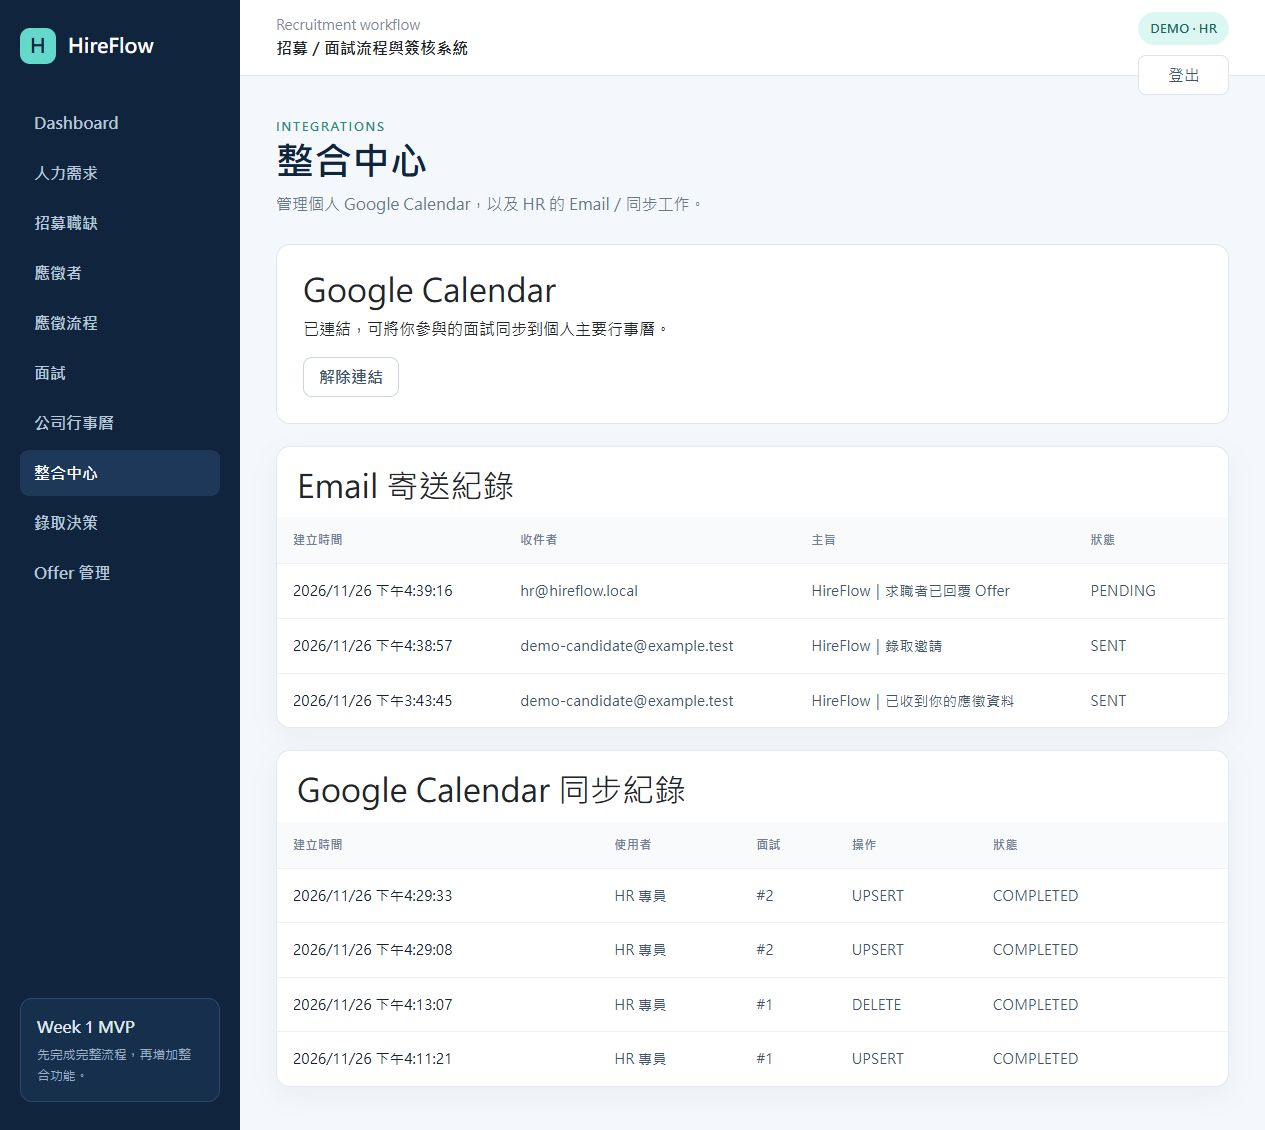
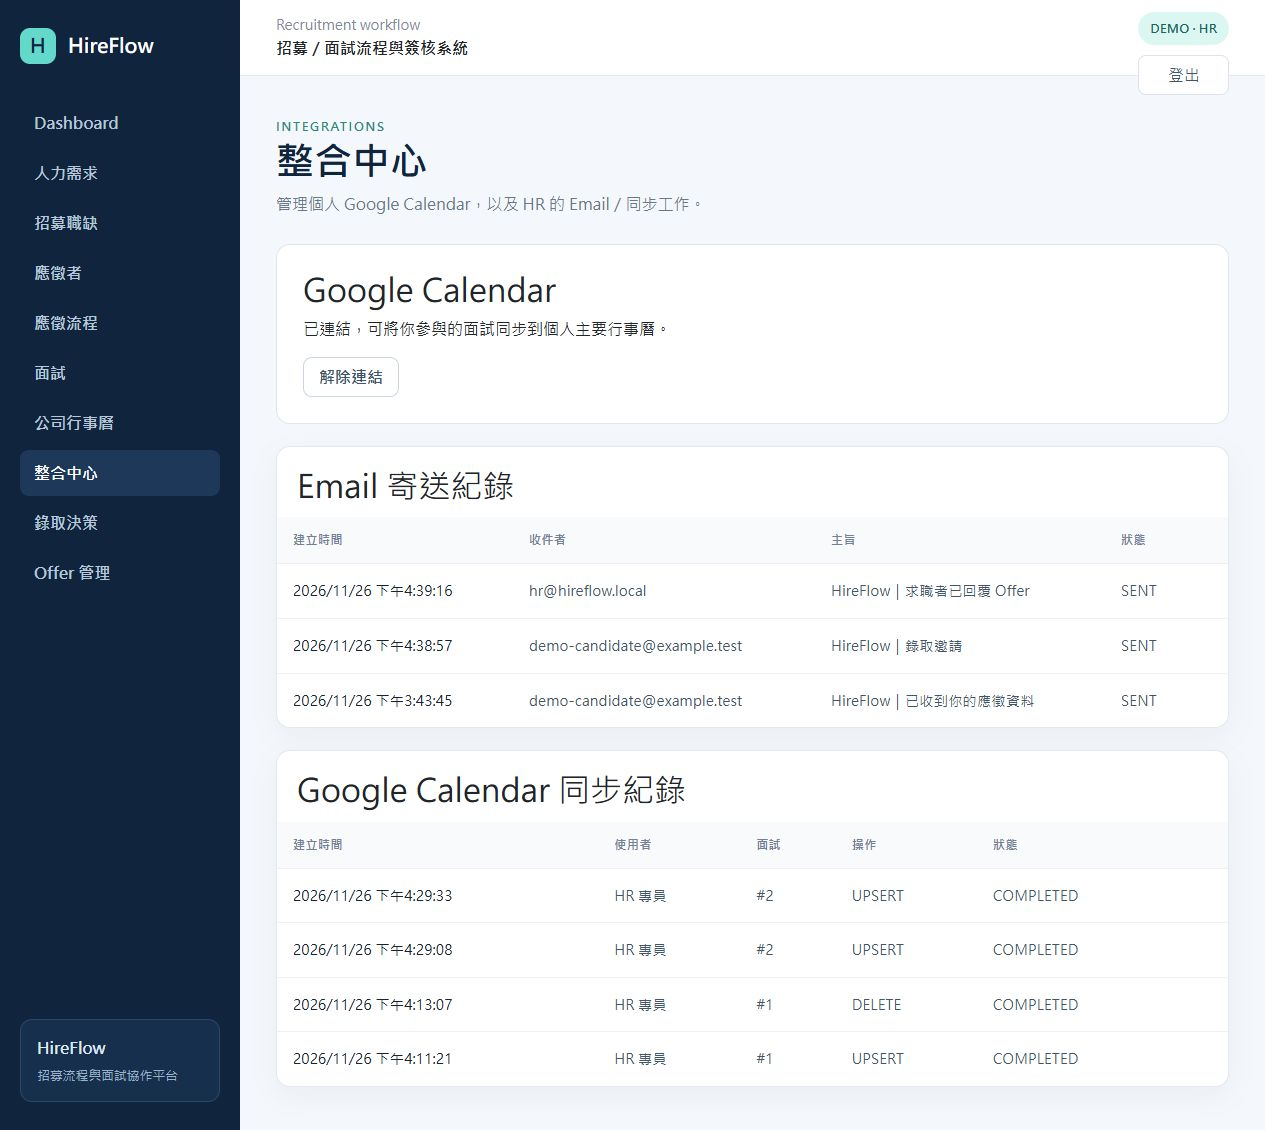
docs: organize project documentation by feature

diff --git a/frontend/src/assets/main.css b/frontend/src/assets/main.css
@@ -87,7 +87,7 @@ a { text-decoration: none; }
 .forbidden-state h1 { color: #10243d; font-size: 1.7rem; }
 .inline-button { display: inline-grid; margin-top: 24px; padding: 0 18px; }
 
-/* Public careers and candidate portal (Day 8-9) */
+/* Public careers and candidate portal */
 .public-shell { min-height: 100vh; color: #17304a; background: #f7fafc; }
 .public-header { display: flex; align-items: center; justify-content: space-between; height: 72px; padding: 0 max(24px, calc((100vw - 1120px) / 2)); border-bottom: 1px solid #e1e9ee; background: rgba(255,255,255,.95); }
 .public-brand { display: flex; align-items: center; gap: 10px; color: #10243d; font-weight: 900; }
@@ -329,7 +329,7 @@ a { text-decoration: none; }
 .audit-filter { grid-template-columns: minmax(260px, 1fr) minmax(220px, .7fr) auto; }
 .audit-filter .primary-button { min-height: 42px; padding: 0 18px; align-self: end; }
 
-/* Offer closure and PDF resume (Day 14) */
+/* Offer closure and PDF resume */
 .offer-form { display: grid; gap: 20px; margin-bottom: 22px; }
 .offer-form label { display: grid; gap: 7px; color: #34475d; font-size: .84rem; font-weight: 800; }
 .offer-form input, .offer-form select, .offer-form textarea, .offer-decline textarea { width: 100%; padding: 11px 12px; border: 1px solid #ccd6e1; border-radius: 8px; color: #182230; background: #fff; font: inherit; }

diff --git a/frontend/src/views/DashboardView.vue b/frontend/src/views/DashboardView.vue
@@ -11,7 +11,7 @@ const apiStatus = ref('checking')
 const authStore = useAuthStore()
 
 const cards = ref([
-  { label: '待審核需求', value: '0', helper: 'Day 3 串接資料' },
+  { label: '待審核需求', value: '0', helper: '等待 HR 審核的人力需求' },
   { label: '未來七天面試', value: '0', helper: '依登入者資料範圍顯示' },
   { label: '待填評分', value: '0', helper: '只計算指派給我的面試' },
   { label: '流程中人選', value: '0', helper: '目前進行中的應徵紀錄' },

diff --git a/frontend/src/views/LoginView.vue b/frontend/src/views/LoginView.vue
@@ -82,7 +82,7 @@ async function submit() {
     </section>
 
     <aside class="login-story">
-      <p class="eyebrow">DAY 2</p>
+      <p class="eyebrow">ROLE-BASED ACCESS</p>
       <h2>每個角色，只看見該做的事</h2>
       <p>登入狀態保存在伺服器 Session；即使繞過前端畫面，後端仍會再次驗證權限。</p>
       <ul>

diff --git a/frontend/src/layouts/AppShell.vue b/frontend/src/layouts/AppShell.vue
@@ -51,8 +51,8 @@ async function handleLogout() {
       </nav>
 
       <div class="sidebar-note">
-        <strong>Week 1 MVP</strong>
-        <span>先完成完整流程，再增加整合功能。</span>
+        <strong>HireFlow</strong>
+        <span>招募流程與面試協作平台</span>
       </div>
     </aside>
 

diff --git a/docs/INTEGRATIONS.md b/docs/INTEGRATIONS.md
@@ -1,6 +1,6 @@
-# Day 10–13：面試協調、Email 與 Google Calendar
+# 面試協調、Email 與 Google Calendar
 
-## Day 10：面試時段與公司行事曆
+## 面試時段與公司行事曆
 
 - HR 可針對 Application 建立多個候選面試時段。
 - 求職者在原本的安全進度頁選擇一個時段；確認後才建立正式 Interview。
@@ -8,7 +8,7 @@
 - 其他未選時段自動改為 `WITHDRAWN`。
 - HR／ADMIN 可查看全部面試；主管只看自己部門；純面試官只看指派給自己的行程。
 
-## Day 11：Email Outbox 與 Gmail
+## Email Outbox 與 Gmail
 
 核心交易只建立 `email_deliveries` 工作，不直接等待 Gmail。背景 Dispatcher 負責寄送，失敗後以 1 分鐘、5 分鐘間隔重試，三次後標示 FAILED，HR 可在整合中心人工重試。
 
@@ -29,7 +29,7 @@ Gmail 帳號應使用 App Password，不要把一般登入密碼或 App Password
 
 派送程式改用 `TransactionTemplate` 明確建立每筆獨立交易，避免同類別呼叫繞過 `@Transactional` 代理。工作先取得資料列鎖並重新確認狀態，成功／失敗結果在交易結束時提交；已完成或尚未到重試時間的工作直接跳過。外部 SMTP／Google 呼叫不屬於資料庫交易，程序中斷時仍需考慮重複派送，詳見 `PUBLIC_RELEASE_CHECKLIST.md`。
 
-## Day 12：Google Calendar
+## Google Calendar
 
 1. 在 Google Cloud 建立 OAuth 2.0 Web Application。
 2. 啟用 Google Calendar API。
@@ -64,7 +64,7 @@ Google 官方參考：
 - https://developers.google.com/identity/protocols/oauth2/web-server
 - https://developers.google.com/workspace/calendar/api/v3/reference/events/insert
 
-## Day 13：整合管理與失敗隔離
+## 整合管理與失敗隔離
 
 - `/integrations`：個人連結／解除 Google Calendar。
 - HR／ADMIN 可查看 Email Delivery 與 Calendar Sync Job。

diff --git a/README.md b/README.md
@@ -135,7 +135,7 @@ HireFlow/
 │   ├── src/services/
 │   ├── src/stores/
 │   └── tests/
-├── docs/                        # 各階段功能與驗收文件
+├── docs/                        # 功能、設定與驗收文件
 ├── .github/workflows/           # CI
 ├── compose.yaml                 # 本機 PostgreSQL
 └── README.md
@@ -231,15 +231,7 @@ $env:HIREFLOW_SMTP_TEST='true'
 Remove-Item Env:HIREFLOW_SMTP_TEST
 ```
 
-## 完成階段
-
-- Day 1–2：Monorepo、PostgreSQL、Flyway、Session 登入、CSRF 與角色權限。
-- Day 3–6：人力需求、職缺、應徵者、招募看板、面試、評分、錄取決策與 Audit Log。
-- Day 7–9：CI、OpenAPI、公開職缺、求職表單、安全查詢連結與進度時間軸。
-- Day 10–13：面試選時、部門行事曆、Email Outbox、Gmail、Google Calendar 與整合中心。
-- Day 14：Offer 簽核與回覆、到期提醒，以及安全的 PDF 履歷附件。
-
-詳細功能與設定說明位於 [`docs/`](docs/)；Day 10–13 外部整合設定見 [`docs/DAY10-13.md`](docs/DAY10-13.md)，Day 14 Offer 與附件見 [`docs/DAY14.md`](docs/DAY14.md)。
+詳細功能與設定說明位於 [`docs/`](docs/)；外部整合設定見 [`整合設定`](docs/INTEGRATIONS.md)，Offer 與附件見 [`Offer 與 PDF 履歷`](docs/OFFERS_AND_ATTACHMENTS.md)。
 
 ## 專案說明
 

diff --git a/docs/CANDIDATE_PORTAL.md b/docs/CANDIDATE_PORTAL.md
@@ -1,13 +1,13 @@
-# Day 7–9 完成內容
+# 公開職缺與求職者入口
 
-## Day 7：作品集交付能力
+## CI 與 API 文件
 
 - GitHub Actions 會分別執行後端測試、前端測試與前端建置。
 - Swagger UI：`http://localhost:8080/swagger-ui.html`
 - OpenAPI JSON：`http://localhost:8080/v3/api-docs`
 - Demo 初始化器會在空資料庫建立一筆公開的 Backend Engineer 職缺。
 
-## Day 8：公開職缺與線上應徵
+## 公開職缺與線上應徵
 
 - 公開職缺列表：`http://localhost:5173/careers`
 - 求職者可填基本資料、技能、自傳、作品集與多筆工作經歷。
@@ -15,11 +15,10 @@
 - 同一個 Email 不可重複應徵同一職缺。
 - 履歷送出後產生不可猜測的查詢 token；資料庫只保存 SHA-256 雜湊。
 
-## Day 9：求職者進度入口
+## 求職者進度入口
 
 - 送出履歷後會導向專屬進度頁。
 - 進度由內部 `ApplicationStage` 轉成求職者可理解的文字。
 - 公開回應刻意排除評分、內部備註、操作人與淘汰原因。
 - 查詢 token 預設 30 天到期，可用 `CANDIDATE_PORTAL_TOKEN_TTL_DAYS` 調整。
 
-> Day 10 再加入面試時段選擇；Day 11 才把同一個查詢連結寄到 Gmail，避免現在先把外部整合耦合進核心應徵流程。

diff --git a/docs/OFFERS_AND_ATTACHMENTS.md b/docs/OFFERS_AND_ATTACHMENTS.md
@@ -1,6 +1,6 @@
-# Day 14：Offer 結案與 PDF 履歷附件
+# Offer 結案與 PDF 履歷附件
 
-Day 14 將「錄取決策」延伸成可結案的 Offer 流程，並讓求職者在安全入口更新 PDF 履歷。這個階段仍以本機作品功能為主，未進入正式部署或展示資料整理。
+Offer 將「錄取決策」延伸成可結案的流程，並讓求職者在安全入口更新 PDF 履歷。
 
 ## Offer 流程
 
@@ -75,7 +75,7 @@ RESUME_MAX_FILE_SIZE=5MB
 RESUME_MAX_REQUEST_SIZE=6MB
 ```
 
-Offer Email 實際寄送仍沿用 Day 11 的 `APP_MAIL_ENABLED` 與 Gmail SMTP 設定。
+Offer Email 實際寄送使用 `APP_MAIL_ENABLED` 與 Gmail SMTP 設定，詳見 [整合設定](INTEGRATIONS.md)。
 
 ## 驗收與開發環境
 

diff --git a/docs/AUTHENTICATION.md b/docs/AUTHENTICATION.md
@@ -1,4 +1,4 @@
-# Day 2 Checklist
+# 登入驗證與權限
 
 ## 已完成
 
@@ -21,6 +21,3 @@ Authentication 回答「目前是誰」，登入成功後由 Spring Security 將
 - BCrypt：同一密碼每次產生不同雜湊，資料庫不保存可還原的明文密碼。
 - CSRF：避免其他網站利用瀏覽器既有 Session 冒用使用者送出狀態修改請求。
 
-## 下一步
-
-Day 3 實作人力需求的 DRAFT、SUBMITTED、APPROVED、RETURNED 與 REJECTED 狀態，以及核准時同一交易建立 OPEN 職缺。

diff --git a/docs/ARCHITECTURE.md b/docs/ARCHITECTURE.md
@@ -2,14 +2,14 @@
 
 ## 系統邊界
 
-第一週 MVP 只完成一條可驗收的招募主流程：
+系統以完整的招募主流程串接各功能：
 
 ```text
 建立人力需求 → HR 核准 → 建立職缺 → 建立應徵紀錄
 → 安排面試 → 面試官評分 → 用人主管決策 → Audit Log
 ```
 
-Calendar、Email、Redis、Offer 電子簽核與 AI 排在第二階段。
+公司行事曆、Google Calendar、Email 通知及 Offer 回覆與招募主流程整合。
 
 ## Backend 分層
 

diff --git a/docs/DECISIONS_AND_AUDIT.md b/docs/DECISIONS_AND_AUDIT.md
@@ -1,4 +1,4 @@
-# Day 6 驗收清單
+# 錄取決策與稽核驗收
 
 ## 錄取決策
 
